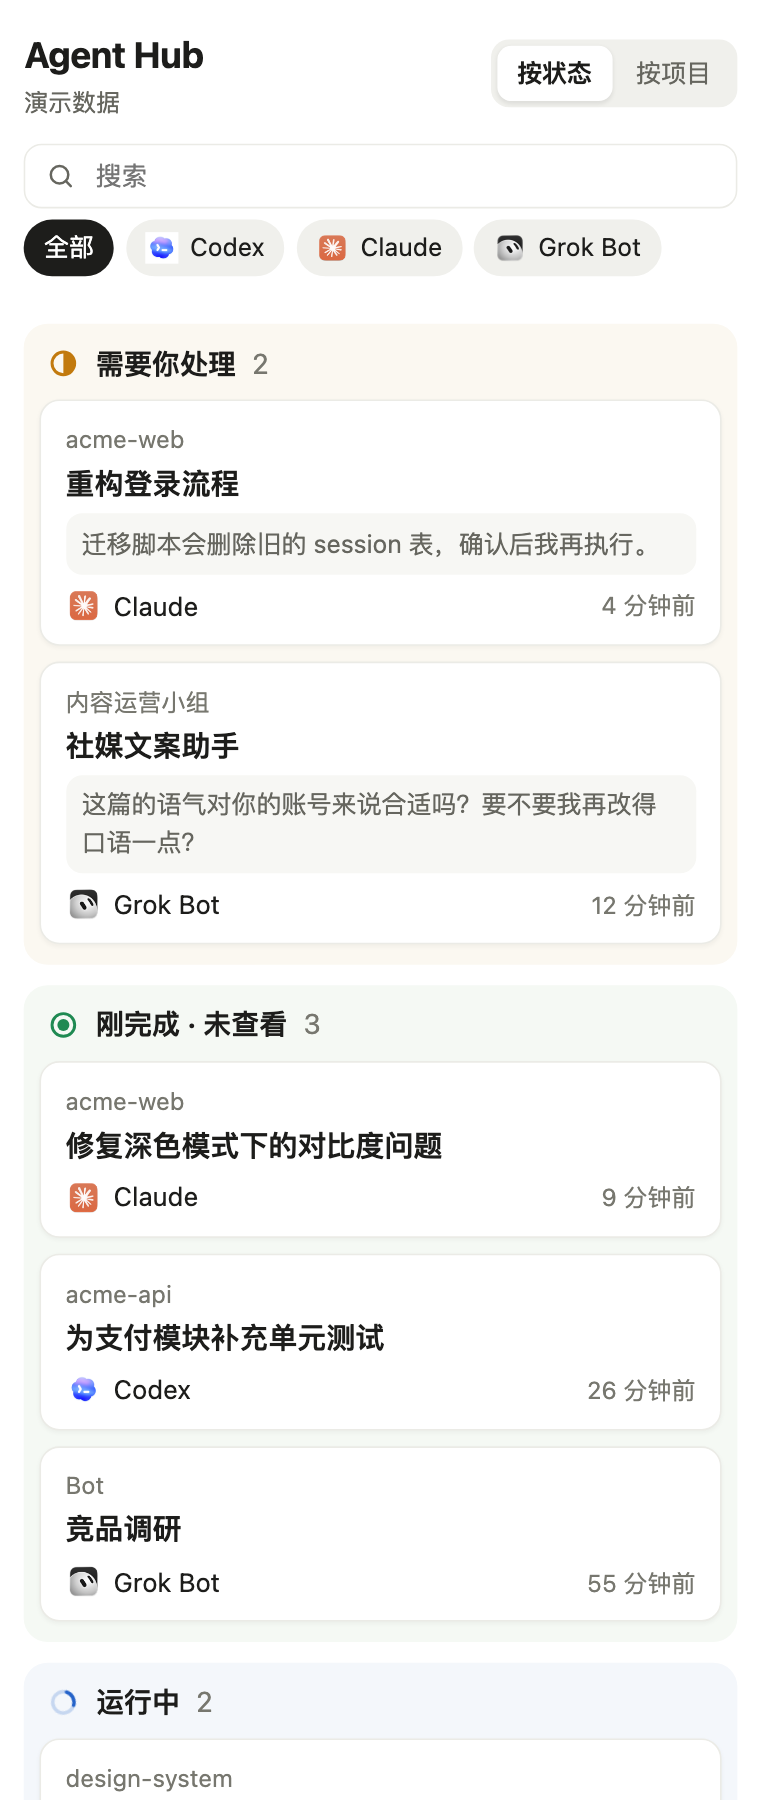
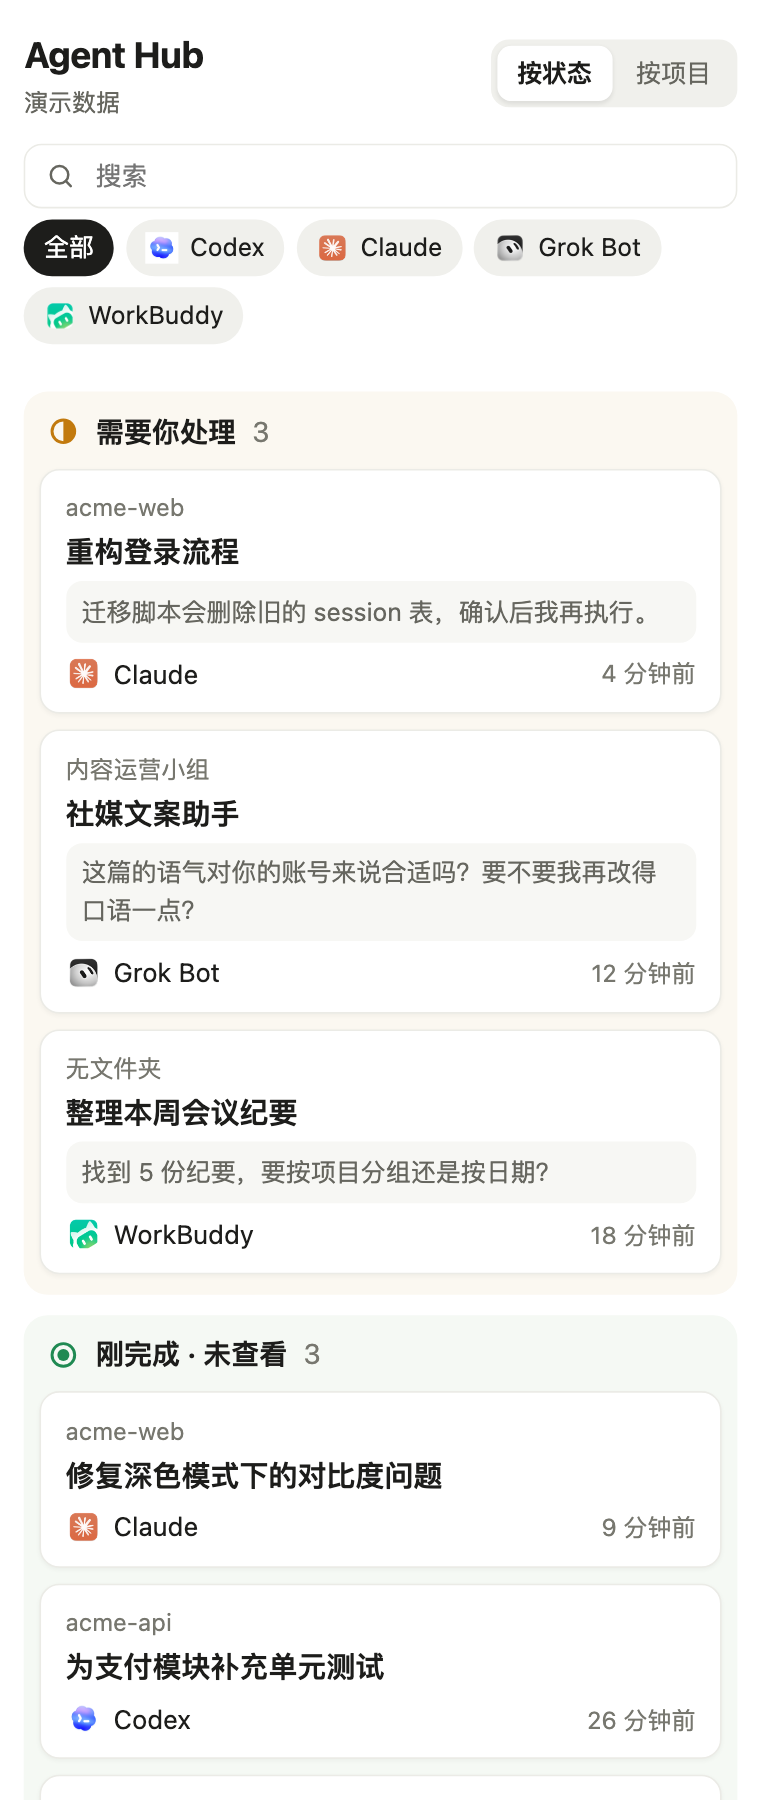
Add WorkBuddy
Reads tasks from WorkBuddy's local database (~/.workbuddy-ai, or
~/.workbuddy for the China edition) and opens them with
workbuddy-ai://chat/<id> (workbuddy:// for the China edition). Statuses
follow WorkBuddy's own buckets: planning/working = running, pending
after a turn = needs you, completed = just finished until opened.
Playground tasks show as "no folder" instead of their generated
timestamp folder. Icon comes from the installed app like the others.

diff --git a/agent_hub.html b/agent_hub.html
@@ -11,7 +11,7 @@
     --col-wait: #fbf8f1; --col-unseen: #f5f9f4; --col-run: #f4f7fb; --col-idle: #f7f7f5;
     --wait: #c27a0e; --wait-text: #8a5208; --unseen: #1f8a52; --unseen-text: #1a6b43;
     --run: #2563c9; --run-text: #1d55b0; --idle: #8a8a83;
-    --codex: #0f8a6a; --claude: #c4623f; --grok: #4f4fc9;
+    --codex: #0f8a6a; --claude: #c4623f; --grok: #4f4fc9; --workbuddy: #2f6fe4;
     --focus: #2563c9; --focus-ring: rgba(37, 99, 201, 0.16);
     --shadow: 0 1px 2px rgba(0, 0, 0, 0.04);
   }
@@ -76,7 +76,7 @@
   .logo { width: 22px; height: 22px; flex-shrink: 0; object-fit: contain; display: block; }
   .chip .logo { width: 16px; height: 16px; }
   .avatar { width: 24px; height: 24px; border-radius: 50%; display: flex; align-items: center; justify-content: center; font-size: 11px; font-weight: 700; color: #fff; flex-shrink: 0; }
-  .avatar.codex { background: var(--codex); } .avatar.claude { background: var(--claude); } .avatar.grok { background: var(--grok); }
+  .avatar.codex { background: var(--codex); } .avatar.claude { background: var(--claude); } .avatar.grok { background: var(--grok); } .avatar.workbuddy { background: var(--workbuddy); }
   .card .time { margin-left: auto; font-size: 13px; color: var(--faint); white-space: nowrap; display: inline-flex; align-items: center; gap: 6px; }
   .empty { margin: 0; padding: 40px 0; text-align: center; color: var(--faint); }
   .more { border: 0; background: none; color: var(--muted); font-size: 13px; min-height: 44px; cursor: pointer; border-radius: 8px; }
@@ -164,7 +164,7 @@ const STRINGS = {
     showAll: n => `显示全部 ${n} 个`, noMatch: "没有匹配的对话", noneYet: "还没有读到对话",
     demoData: "演示数据",
     readFailed: (app, msg) => `读取 ${app} 失败：${msg}`,
-    emptyHint: ["没有找到 Codex、Claude 或 Grok Bot 桌面应用的本地对话。先在这些应用里开始一个对话，或用 ", " 看看演示效果。"],
+    emptyHint: ["没有找到 Codex、Claude、Grok Bot 或 WorkBuddy 桌面应用的本地对话。先在这些应用里开始一个对话，或用 ", " 看看演示效果。"],
     offline: "连接不到本地服务，确认 agent_hub.py 还在运行",
     demoOpen: "演示模式：不会真的打开应用", opened: app => `已在 ${app} 中打开`, openFailed: "打开失败",
     onlyUnseen: "只有「刚完成 · 未查看」的对话需要标为已看", markedSeen: "已标为已看", failed: "操作失败",
@@ -180,7 +180,7 @@ const STRINGS = {
     showAll: n => `Show all ${n}`, noMatch: "No matching conversations", noneYet: "No conversations found yet",
     demoData: "demo data",
     readFailed: (app, msg) => `Couldn't read ${app}: ${msg}`,
-    emptyHint: ["No local conversations found from the Codex, Claude or Grok Bot desktop apps. Start one in those apps, or try ", " to see a demo."],
+    emptyHint: ["No local conversations found from the Codex, Claude, Grok Bot or WorkBuddy desktop apps. Start one in those apps, or try ", " to see a demo."],
     offline: "Can't reach the local server. Is agent_hub.py still running?",
     demoOpen: "Demo mode: no app is opened", opened: app => `Opened in ${app}`, openFailed: "Couldn't open it",
     onlyUnseen: "Only “Just finished” conversations can be marked as viewed", markedSeen: "Marked as viewed", failed: "Something went wrong",
@@ -207,7 +207,7 @@ document.querySelectorAll("[data-i18n]").forEach(e => { e.textContent = T[e.data
 document.querySelectorAll("[data-i18n-placeholder]").forEach(e => { e.placeholder = T[e.dataset.i18nPlaceholder]; });
 document.querySelectorAll("[data-i18n-aria]").forEach(e => { e.setAttribute("aria-label", T[e.dataset.i18nAria]); });
 
-const APPS = { codex: ["Codex", "C"], claude: ["Claude", "A"], grok: ["Grok Bot", "G"] };
+const APPS = { codex: ["Codex", "C"], claude: ["Claude", "A"], grok: ["Grok Bot", "G"], workbuddy: ["WorkBuddy", "W"] };
 const COLUMNS = [
   { key: "waiting", cls: "wait", title: T.waiting },
   { key: "unseen", cls: "unseen", title: T.unseen },
@@ -392,7 +392,7 @@ function renderFilters() {
   const box = document.getElementById("filters");
   box.replaceChildren();
   const present = new Set(data.sessions.map(s => s.app));
-  for (const k of ["all", ...["codex", "claude", "grok"].filter(a => present.has(a))]) {
+  for (const k of ["all", ...Object.keys(APPS).filter(a => present.has(a))]) {
     box.append(el("button", {
       type: "button", class: "chip", "aria-pressed": String(filter === k),
       onclick: () => { filter = k; store.set("hub.filter", k); render(); },

diff --git a/agent_hub.py b/agent_hub.py
@@ -273,6 +273,77 @@ def grok_sessions():
     return out[:LIMIT_PER_APP]
 
 
+# ---------------------------------------------------------------- WorkBuddy
+
+# The overseas build keeps its data in ~/.workbuddy-ai and opens workbuddy-ai:// links;
+# the China build uses ~/.workbuddy and workbuddy://.
+WORKBUDDY_HOMES = [(HOME / ".workbuddy-ai", "workbuddy-ai"), (HOME / ".workbuddy", "workbuddy")]
+
+
+def workbuddy_home():
+    for home, scheme in WORKBUDDY_HOMES:
+        if (home / "workbuddy.db").exists():
+            return home, scheme
+    return None, None
+
+
+def workbuddy_status(raw):
+    """Same buckets as WorkBuddy's own normalizeTaskStatus."""
+    s = re.sub(r"[\s-]+", "_", (raw or "").strip().lower())
+    if s in ("planning", "preparing", "connecting", "working", "running", "tool_start", "tool_end", "handoff",
+             "summarizing", "waiting_team_members", "model_requesting", "model_streaming", "model_done",
+             "tool_executing"):
+        return "working"
+    if s in ("completed", "cancelled", "canceled", "done"):
+        return "completed"
+    if s in ("failed", "error", "terminated", "archived"):
+        return s
+    return "pending"  # pending, idle, await_input, waiting_input, … and anything unknown
+
+
+def workbuddy_sessions():
+    home, _ = workbuddy_home()
+    if not home:
+        return []
+    # immutable: the app keeps the file open in a way that makes a plain read-only open fail.
+    con = sqlite3.connect(f"file:{home / 'workbuddy.db'}?immutable=1", uri=True, timeout=2)
+    try:
+        rows = con.execute(
+            """select id, coalesce(nullif(custom_title,''), title), cwd, status,
+                      coalesce(last_activity_at, updated_at), is_playground
+               from sessions
+               where deleted_at is null and lower(status) != 'archived'
+               order by coalesce(last_activity_at, updated_at) desc
+               limit ?""",
+            (LIMIT_PER_APP,),
+        ).fetchall()
+    finally:
+        con.close()
+
+    out = []
+    for sid, title, cwd, raw_status, activity, playground in rows:
+        status, running_since = "idle", 0
+        state = workbuddy_status(raw_status)
+        if state == "working" and now_ms() - activity < RUNNING_STALE_SEC * 1000:
+            status, running_since = "running", activity
+        elif state == "pending" and activity:
+            status = "waiting"  # a turn has happened and the task is waiting for your input
+        elif state == "completed":
+            status = finish("idle", activity, 0, "workbuddy", sid)
+        out.append({
+            "app": "workbuddy",
+            "id": sid,
+            "title": first_line(title),
+            # Playground tasks run in a generated timestamp folder that means nothing to the user.
+            **folder_project("" if playground else cwd),
+            "preview": "",
+            "updatedAt": activity,
+            "runningSince": running_since,
+            "status": status,
+        })
+    return out
+
+
 def strip_md_links(text):
     return re.sub(r"\[([^\]]+)\]\([^)]+\)", r"\1", text)
 
@@ -291,7 +362,7 @@ def first_line(text):
     return lines[0][:120] if lines else ""
 
 
-SOURCES = {"codex": codex_sessions, "claude": claude_sessions, "grok": grok_sessions}
+SOURCES = {"codex": codex_sessions, "claude": claude_sessions, "grok": grok_sessions, "workbuddy": workbuddy_sessions}
 
 # ---------------------------------------------------------------- app icons
 
@@ -301,6 +372,7 @@ APP_ICONS = {
     "codex": [("Codex.app", None), ("ChatGPT.app", "app.icns")],  # Codex lives inside the ChatGPT app
     "claude": [("Claude.app", None)],
     "grok": [("Grok Bot.app", None)],
+    "workbuddy": [("WorkBuddy AI.app", None), ("WorkBuddy.app", None)],
 }
 ICON_CACHE = HOME / "Library" / "Caches" / "agent-hub"
 
@@ -368,6 +440,10 @@ def demo_sessions(lang):
         ("grok", ("产品经理", "Product manager"), app_team, "group", "idle", 900, None),
         ("codex", ("首页加载速度分析", "Profile home page load time"), "acme-web", "folder", "idle", 1500, None),
         ("grok", ("UI 设计师", "UI designer"), app_team, "group", "idle", 2000, None),
+        ("workbuddy", ("整理本周会议纪要", "Summarize this week's meetings"), None, "nofolder", "waiting", 18,
+         ("找到 5 份纪要，要按项目分组还是按日期？", "Found 5 sets of notes. Group them by project or by date?")),
+        ("workbuddy", ("生成季度汇报 PPT", "Build the quarterly review deck"), "reports", "folder", "running", 5, None),
+        ("workbuddy", ("对比三家供应商报价", "Compare three vendor quotes"), "reports", "folder", "idle", 300, None),
     ]
     out = []
     for i, (app, title, project, kind, status, ago, preview) in enumerate(rows):
@@ -375,7 +451,7 @@ def demo_sessions(lang):
             "app": app, "id": f"demo-{i}", "title": title[en],
             "source": project or "", "sourceType": kind,
             "projectKey": f"{kind}:{project}", "projectName": project or "",
-            "projectKind": {"group": "group", "bot": "bots"}.get(kind, "folder"),
+            "projectKind": {"group": "group", "bot": "bots", "nofolder": "nofolder"}.get(kind, "folder"),
             "preview": preview[en] if preview else "", "updatedAt": t - ago * minute,
             "runningSince": t - ago * minute if status == "running" else 0,
             "status": status,
@@ -387,6 +463,7 @@ DEEP_LINKS = {
     "codex": (re.compile(r"^[0-9a-f-]{36}$"), "codex://threads/{id}"),
     "claude": (re.compile(r"^local_[A-Za-z0-9-]{1,64}$"), "claude://code/continue?session={id}"),
     "grok": (re.compile(r"^[A-Za-z0-9_-]{1,128}$"), "grokbot://app/v1/agent?id={id}"),
+    "workbuddy": (re.compile(r"^[0-9a-f-]{36}$"), "{scheme}://chat/{id}"),
 }
 
 
@@ -418,7 +495,7 @@ class Handler(BaseHTTPRequestHandler):
     def do_GET(self):
         if self.path.split("?")[0] in ("/", "/index.html"):
             self.send(200, PAGE.read_bytes(), "text/html; charset=utf-8")
-        elif re.fullmatch(r"/icon/(codex|claude|grok)\.png", self.path):
+        elif re.fullmatch(r"/icon/(codex|claude|grok|workbuddy)\.png", self.path):
             png = app_icon_png(self.path[6:-4])
             if png:
                 self.send(200, png, "image/png")
@@ -451,7 +528,7 @@ class Handler(BaseHTTPRequestHandler):
         STATE.mark(app, sid)
         if self.path == "/api/seen":
             return self.send(200, {"ok": True})
-        url = template.format(id=sid)
+        url = template.format(id=sid, scheme=workbuddy_home()[1] or "workbuddy")
         subprocess.run(["open", url], check=False)
         self.send(200, {"ok": True, "url": url})
 

diff --git a/README.md b/README.md
@@ -2,7 +2,7 @@
 
 [中文说明](README.zh-CN.md)
 
-One local dashboard for every AI agent conversation running in your **desktop apps** — Codex (ChatGPT app), Claude, and Grok Bot — with click-to-jump back into the exact conversation.
+One local dashboard for every AI agent conversation running in your **desktop apps** — Codex (ChatGPT app), Claude, Grok Bot and WorkBuddy — with click-to-jump back into the exact conversation.
 
 When you have a dozen agents working across three apps, it's hard to tell which one is waiting for you, which just finished, and which is still running. Agent Hub reads each app's local data, sorts every conversation onto a status board, and opens the right conversation in the right app when you click a card.
 
@@ -21,7 +21,7 @@ Narrow the window and it turns into a single stacked list, so it can sit beside 
 
 - **Status board** — four columns: *Needs you* → *Just finished* (not opened yet) → *Running* → *Recent*.
 - **Project board** — Codex and Claude sessions from the same folder grouped together; Grok bots grouped by their team.
-- **Click to jump** — opens the conversation in its own app via the app's URL scheme (`codex://`, `claude://`, `grokbot://`).
+- **Click to jump** — opens the conversation in its own app via the app's URL scheme (`codex://`, `claude://`, `grokbot://`, `workbuddy-ai://`).
 - **Fits a sidebar** — 4 columns when wide, 2×2 at half screen, a single stacked column when narrowed beside your agent app.
 - **Keyboard** — arrows to move, `Enter` to open, `Space` to peek at the last message, `U` to mark as viewed, `/` to search.
 - **Real app icons** — each card shows the app's own logo and name, taken from the apps installed on your Mac.
@@ -37,6 +37,7 @@ Narrow the window and it turns into a single stacked list, so it can sit beside 
   - **ChatGPT desktop app** with Codex (reads `~/.codex`)
   - **Claude desktop app**, Code tab sessions (reads `~/Library/Application Support/Claude/claude-code-sessions`)
   - **Grok Bot desktop app** (reads `~/Library/Application Support/Grok Bot`)
+  - **WorkBuddy desktop app** (reads `~/.workbuddy-ai`, or `~/.workbuddy` for the China edition)
 
 Apps you don't have are simply skipped.
 
@@ -60,11 +61,11 @@ Options:
 
 ## How statuses are worked out
 
-| Status | Codex | Claude | Grok Bot |
-|---|---|---|---|
-| Running | last turn started and not finished | you sent a message and the turn hasn't ended | — |
-| Needs you | not available in Codex's local data | session is waiting for input or confirmation | bot is awaiting your reply |
-| Just finished | finished after you last opened it from Agent Hub | finished after you last focused it in Claude | unread messages, or activity after you last viewed it |
+| Status | Codex | Claude | Grok Bot | WorkBuddy |
+|---|---|---|---|---|
+| Running | last turn started and not finished | you sent a message and the turn hasn't ended | — | task is planning or working |
+| Needs you | not available in Codex's local data | session is waiting for input or confirmation | bot is awaiting your reply | task is waiting for your input |
+| Just finished | finished after you last opened it from Agent Hub | finished after you last focused it in Claude | unread messages, or activity after you last viewed it | completed after you last opened it from Agent Hub |
 
 Agent Hub remembers which finished conversations you opened (or marked with `U`) in `agent_hub_state.json` next to the script. Besides that, it only writes a cached PNG of each app's icon to `~/Library/Caches/agent-hub`. On first launch only the last 6 hours count as "just finished", so your history doesn't flood the column.
 
@@ -81,7 +82,7 @@ The server listens on `127.0.0.1` only. The page can only ask it to open a conve
 
 ## Not affiliated
 
-Agent Hub is an independent project and is not affiliated with or endorsed by OpenAI, Anthropic, or xAI. Product names are used only to describe compatibility. No logos are included in this repository: the icons you see are read at runtime from the apps installed on your Mac (a letter badge is shown if an app isn't installed).
+Agent Hub is an independent project and is not affiliated with or endorsed by OpenAI, Anthropic, xAI or Tencent. Product names are used only to describe compatibility. No logos are included in this repository: the icons you see are read at runtime from the apps installed on your Mac (a letter badge is shown if an app isn't installed).
 
 ## License
 

diff --git a/README.zh-CN.md b/README.zh-CN.md
@@ -2,7 +2,7 @@
 
 [English](README.md)
 
-一个本地面板，统一查看你在各个**桌面应用**里运行的 AI agent 对话：Codex（ChatGPT 应用）、Claude 和 Grok Bot。点击卡片就能跳回对应应用里的那个对话。
+一个本地面板，统一查看你在各个**桌面应用**里运行的 AI agent 对话：Codex（ChatGPT 应用）、Claude、Grok Bot 和 WorkBuddy。点击卡片就能跳回对应应用里的那个对话。
 
 同时开着十几个 agent、分散在三个应用里时，很难一眼看出哪个在等你回复、哪个刚做完、哪个还在跑。Agent Hub 读取各应用存在本地的数据，把所有对话按状态排进看板，点击卡片就在对应应用里打开那个对话。
 
@@ -21,7 +21,7 @@
 
 - **按状态看板**：四列，依次是「需要你处理 → 刚完成 · 未查看 → 运行中 → 最近」。
 - **按项目看板**：同一个文件夹下的 Codex 和 Claude 会话放在一起，Grok Bot 按所属群组归类。
-- **点击跳转**：用各应用自己的链接协议（`codex://`、`claude://`、`grokbot://`）打开对应对话。
+- **点击跳转**：用各应用自己的链接协议（`codex://`、`claude://`、`grokbot://`、`workbuddy-ai://`）打开对应对话。
 - **适配侧边栏**：宽屏四列，半屏两列两行，缩窄放在 agent 应用旁边时变成一列竖排。
 - **键盘操作**：方向键选择，回车打开，空格预览最后一条消息，`U` 标为已看，`/` 搜索。
 - **真实应用图标**：每张卡片显示应用自己的图标和名称，图标取自你 Mac 上已安装的应用。
@@ -37,6 +37,7 @@
   - **ChatGPT 桌面版**里的 Codex（读取 `~/.codex`）
   - **Claude 桌面版** Code 页面的会话（读取 `~/Library/Application Support/Claude/claude-code-sessions`）
   - **Grok Bot 桌面版**（读取 `~/Library/Application Support/Grok Bot`）
+  - **WorkBuddy 桌面版**（读取 `~/.workbuddy-ai`，国内版读取 `~/.workbuddy`）
 
 没装的应用会自动跳过。
 
@@ -60,11 +61,11 @@ python3 agent_hub.py
 
 ## 状态是怎么判断的
 
-| 状态 | Codex | Claude | Grok Bot |
-|---|---|---|---|
-| 运行中 | 最近一轮已开始、还没结束 | 你发了消息，这一轮还没结束 | — |
-| 需要你处理 | Codex 本地数据里没有这项 | 会话在等你输入或确认 | Bot 在等你回复 |
-| 刚完成 · 未查看 | 在你上次从面板打开之后又完成了 | 在你上次在 Claude 里查看之后又完成了 | 有未读消息，或在你上次查看之后有新动态 |
+| 状态 | Codex | Claude | Grok Bot | WorkBuddy |
+|---|---|---|---|---|
+| 运行中 | 最近一轮已开始、还没结束 | 你发了消息，这一轮还没结束 | — | 任务在规划或执行中 |
+| 需要你处理 | Codex 本地数据里没有这项 | 会话在等你输入或确认 | Bot 在等你回复 | 任务在等你输入 |
+| 刚完成 · 未查看 | 在你上次从面板打开之后又完成了 | 在你上次在 Claude 里查看之后又完成了 | 有未读消息，或在你上次查看之后有新动态 | 在你上次从面板打开之后又完成了 |
 
 你在面板里打开过（或按 `U` 标为已看）的对话，会记在脚本旁边的 `agent_hub_state.json` 里，此外只会把各应用图标转成 PNG 缓存到 `~/Library/Caches/agent-hub`。第一次启动时，只把最近 6 小时内完成的对话算作未查看，避免历史对话一下子全涌进这一列。
 
@@ -81,7 +82,7 @@ python3 agent_hub.py
 
 ## 声明
 
-Agent Hub 是独立项目，与 OpenAI、Anthropic、xAI 没有任何关联，也未获得它们的认可。文中提到的产品名称仅用于说明兼容性。仓库里不包含任何商标图标：界面上的图标是运行时从你 Mac 上已安装的应用里读取的，没装的应用显示字母徽标。
+Agent Hub 是独立项目，与 OpenAI、Anthropic、xAI、腾讯没有任何关联，也未获得它们的认可。文中提到的产品名称仅用于说明兼容性。仓库里不包含任何商标图标：界面上的图标是运行时从你 Mac 上已安装的应用里读取的，没装的应用显示字母徽标。
 
 ## 许可证
 
